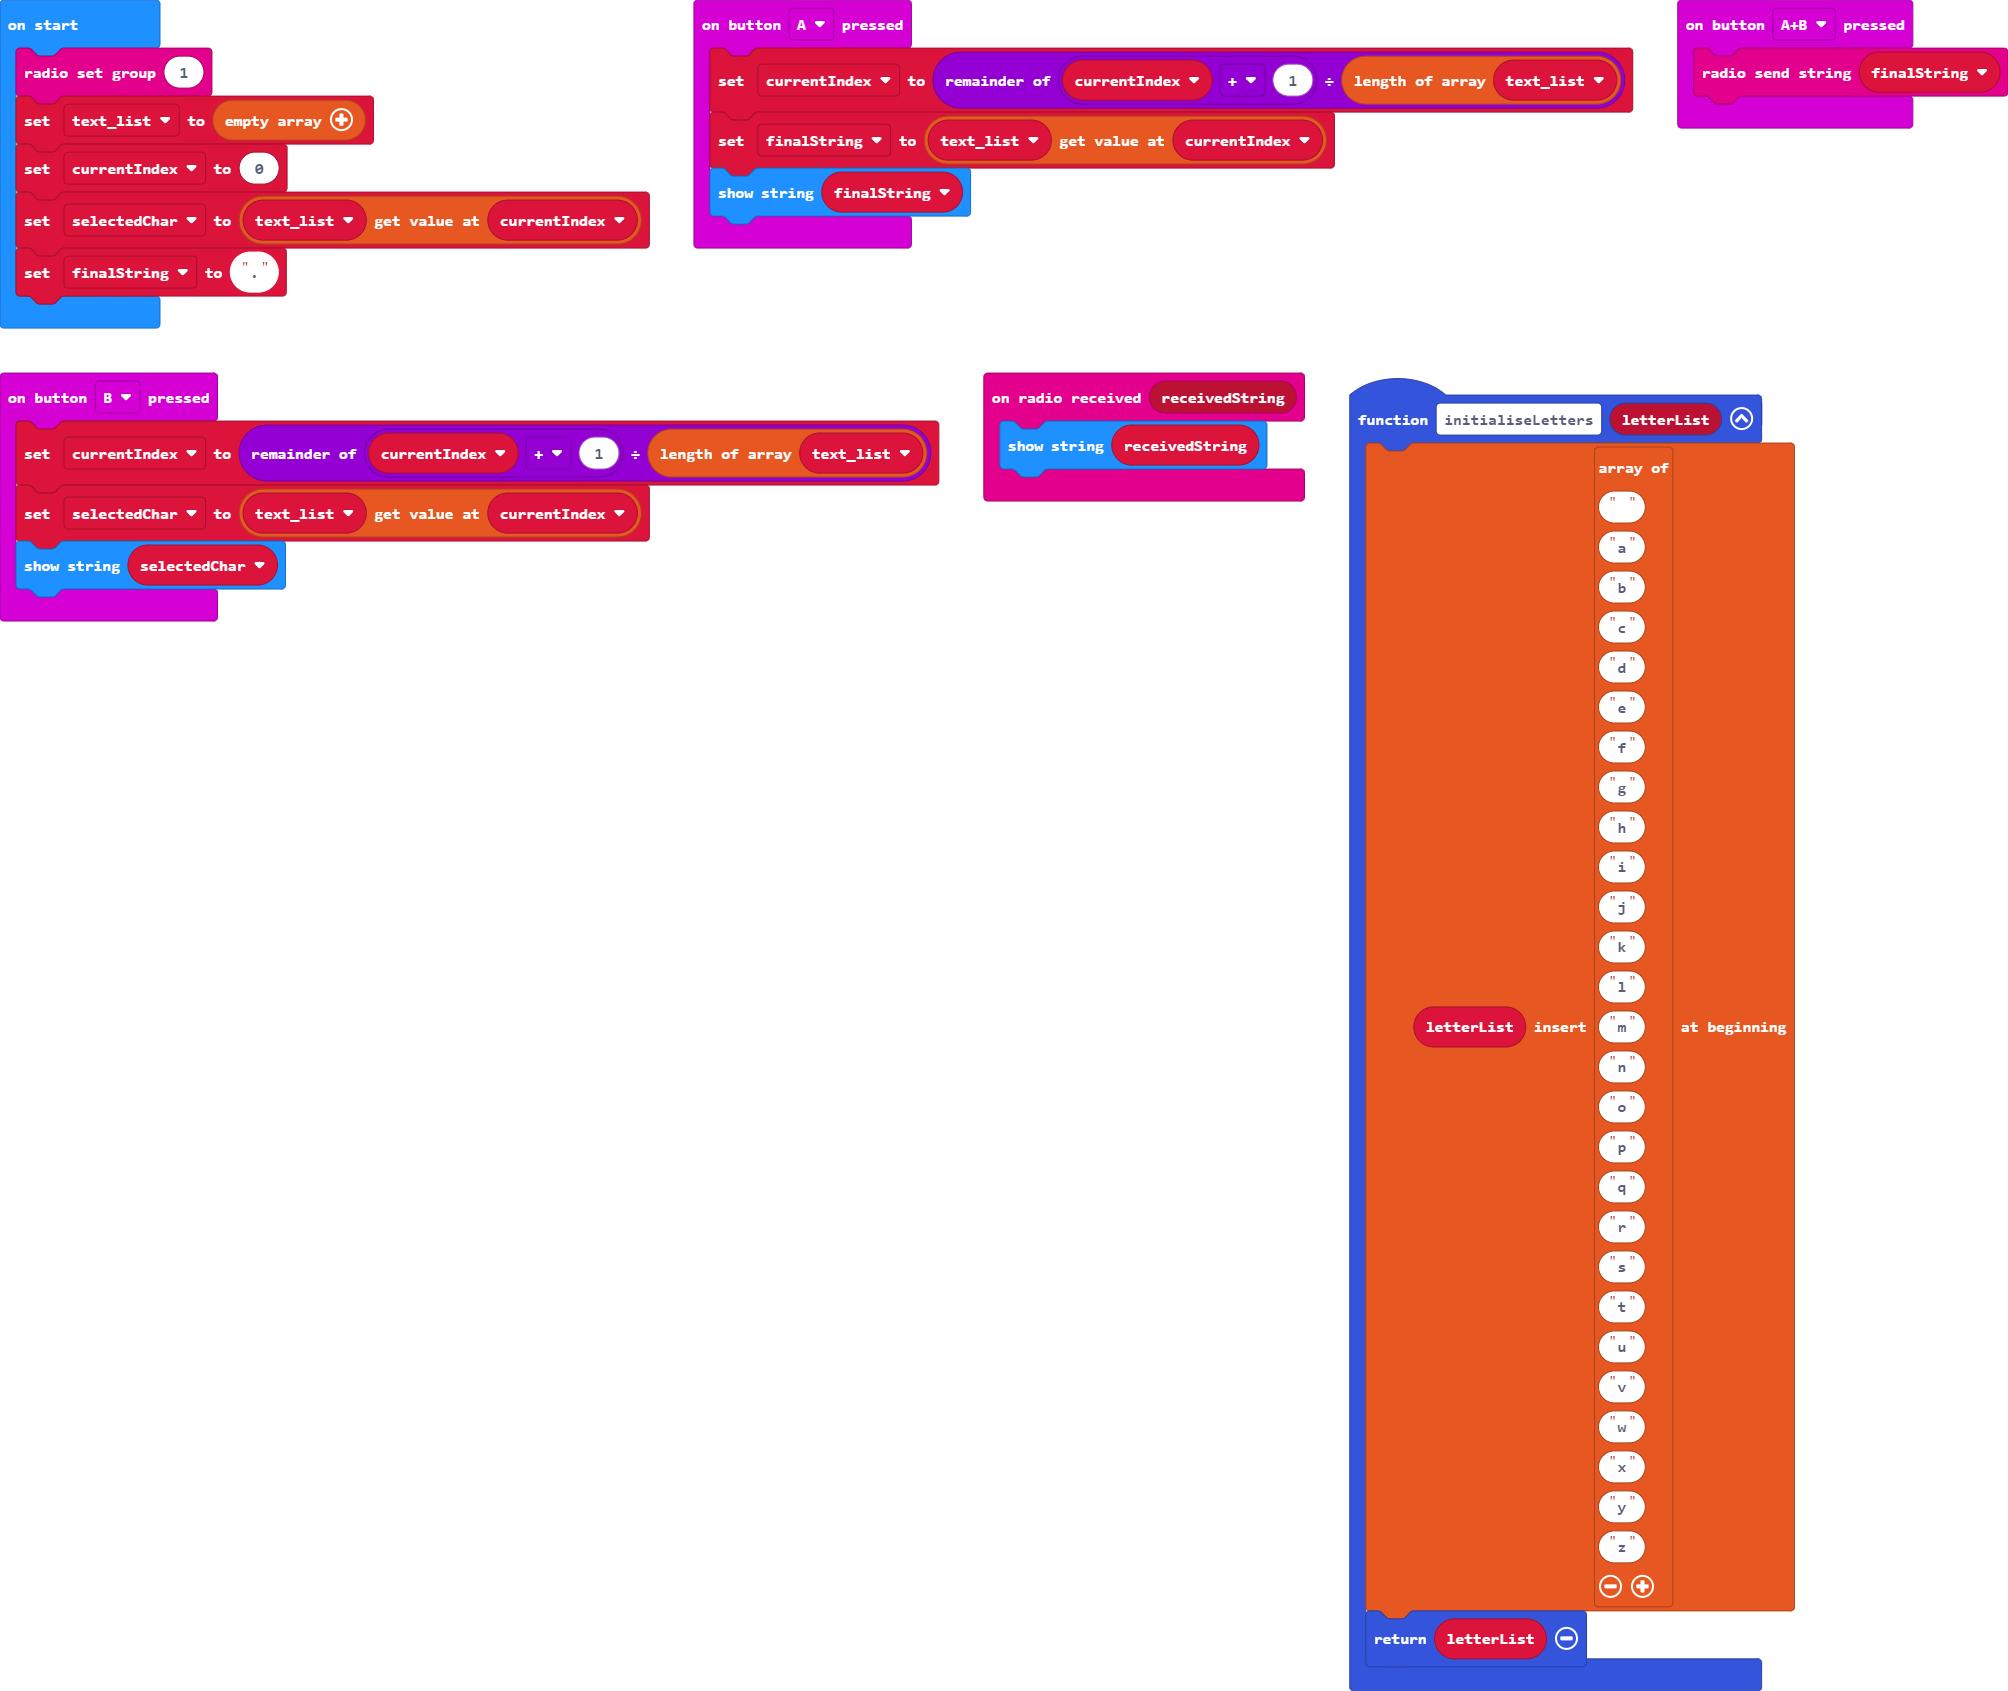
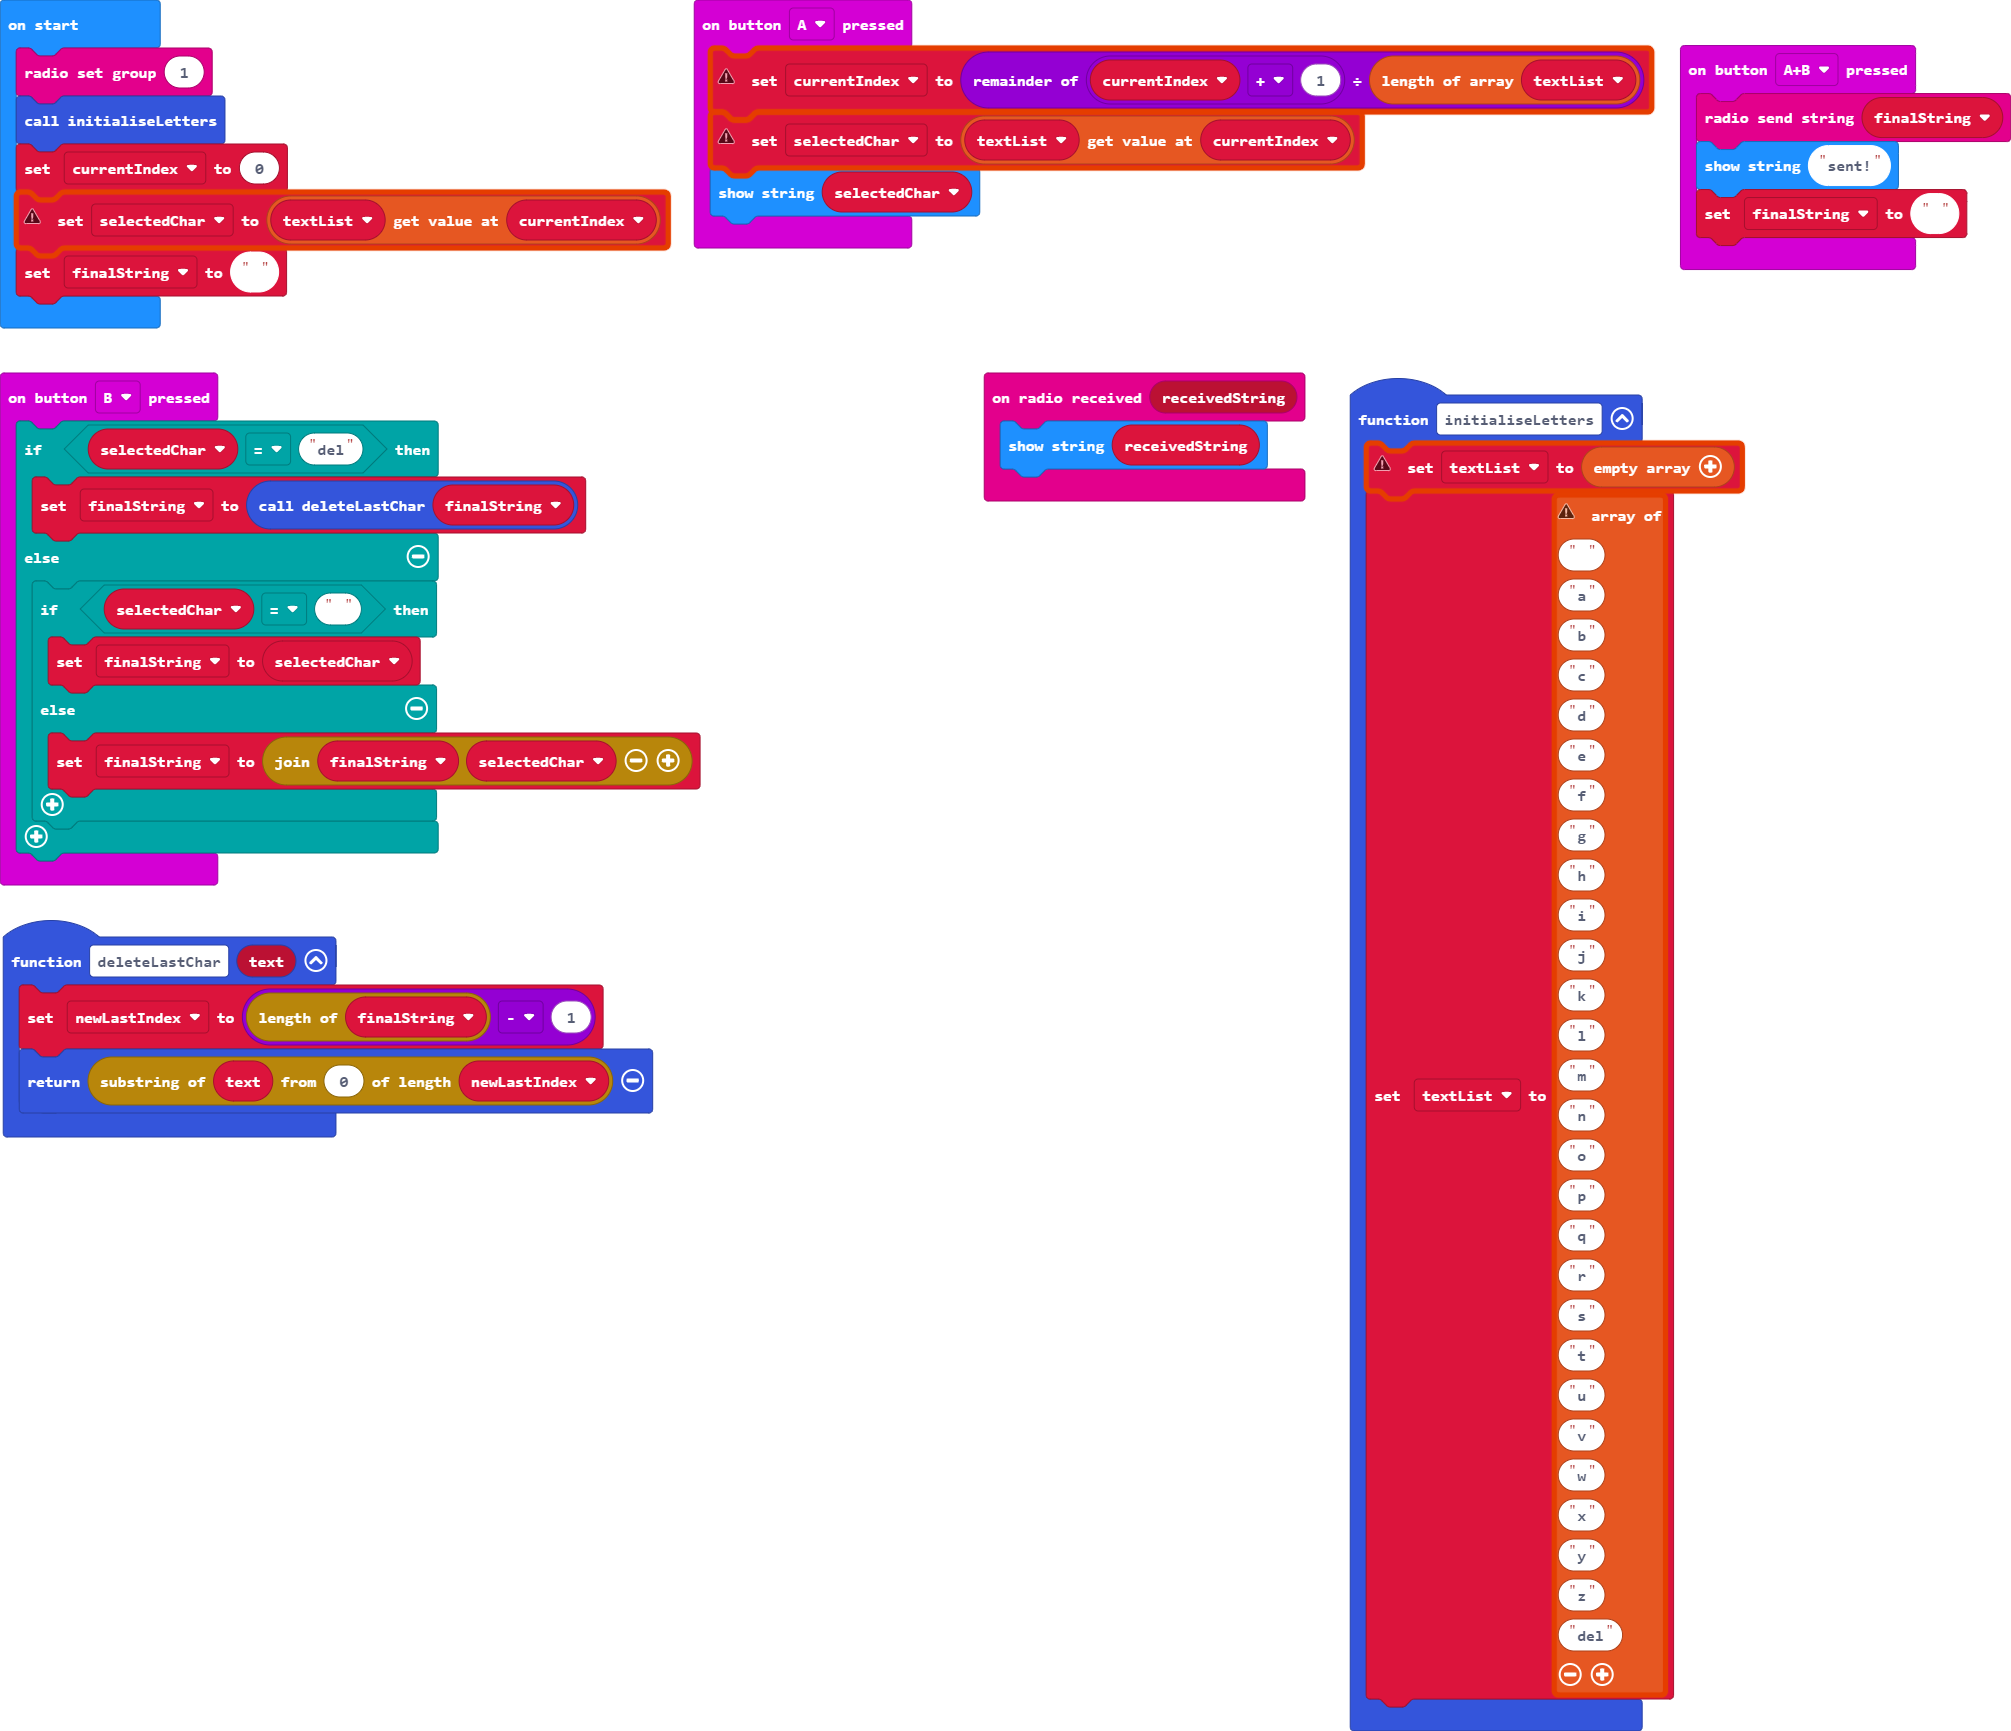
why is it broken :(

diff --git a/main.ts b/main.ts
@@ -1,21 +1,34 @@
+function deleteLastChar (text: string) {
+    newLastIndex = finalString.length - 1
+    return text.substr(0, newLastIndex)
+}
 input.onButtonPressed(Button.A, function () {
-    currentIndex = (currentIndex + 1) % text_list.length
-    finalString = text_list[currentIndex]
-    basic.showString(finalString)
+    currentIndex = (currentIndex + 1) % textList.length
+    selectedChar = textList[currentIndex]
+    basic.showString("" + (selectedChar))
 })
 input.onButtonPressed(Button.AB, function () {
-    radio.sendString(finalString)
+    radio.sendString("" + (finalString))
+    basic.showString("sent!")
+    finalString = " "
 })
 radio.onReceivedString(function (receivedString) {
     basic.showString(receivedString)
 })
 input.onButtonPressed(Button.B, function () {
-    currentIndex = (currentIndex + 1) % text_list.length
-    selectedChar = text_list[currentIndex]
-    basic.showString(selectedChar)
+    if (selectedChar == "del") {
+        finalString = deleteLastChar(finalString)
+    } else {
+        if (selectedChar == " ") {
+            finalString = selectedChar
+        } else {
+            finalString = "" + finalString + selectedChar
+        }
+    }
 })
-function initialiseLetters (letterList: string[][]) {
-    letterList.unshift([
+function initialiseLetters () {
+    textList = []
+    textList = [
     " ",
     "a",
     "b",
@@ -42,16 +55,17 @@ function initialiseLetters (letterList: string[][]) {
     "w",
     "x",
     "y",
-    "z"
-    ])
-    return letterList
+    "z",
+    "del"
+    ]
 }
+let newLastIndex = 0
 let finalString = ""
+let textList: void = null
 let selectedChar = ""
 let currentIndex = 0
-let text_list: string[] = []
 radio.setGroup(1)
-text_list = []
+initialiseLetters()
 currentIndex = 0
-selectedChar = text_list[currentIndex]
-finalString = "."
+selectedChar = textList[currentIndex]
+finalString = " "
